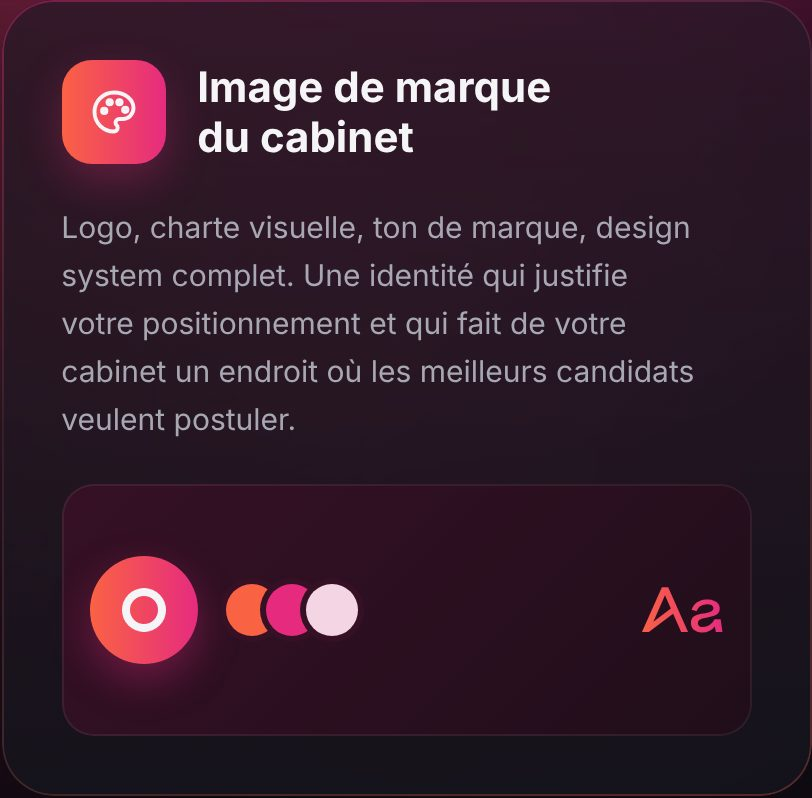
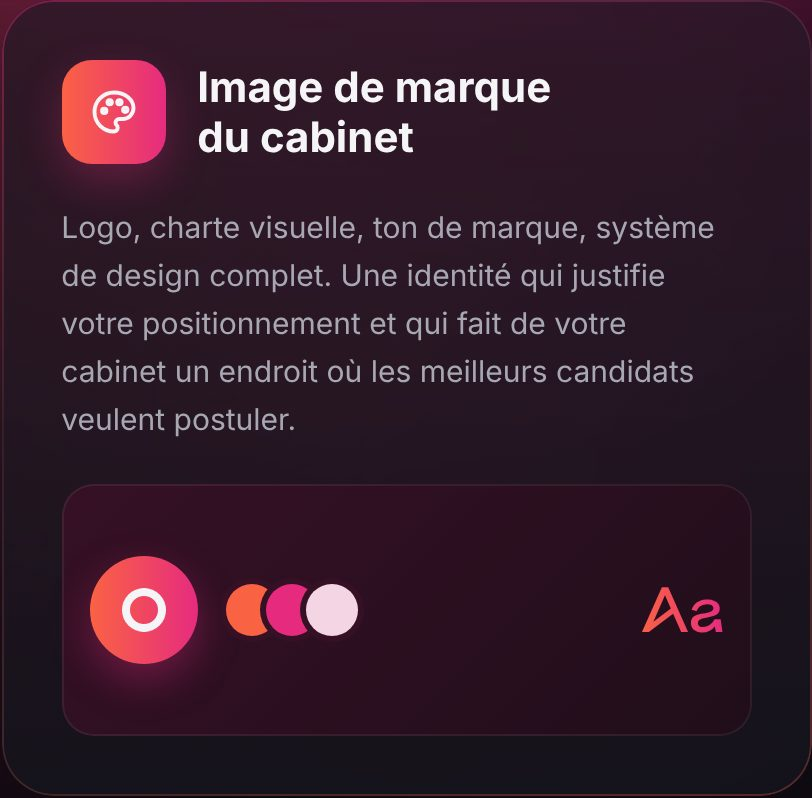
RH : anglicismes corrigés ; menu Services : « La fondation » pour l'Image de marque
- Tuile « Image de marque du cabinet » : « système de design complet »
- Sous-titre du hero RH et carte « Pour qui » : « image de marque » au lieu de « branding »
  (title, meta et H1 inchangés)
- Menu Services : libellé court « La fondation » (hint) ; le cycle garde « La fondation de
  tout le reste » (role)
- Captures de la tuile RH et du menu Services ouvert (ordinateur et burger)

Claude-Session: https://claude.ai/code/session_01QiN6EzAa7GW4dfaCoBoWZW

Changed region(s): [[0.0616, 0.3308, 0.8313, 0.3609], [0.7389, 0.2707, 0.8929, 0.3008]]

diff --git a/src/data/services.ts b/src/data/services.ts
@@ -44,7 +44,7 @@ export const SERVICES: Service[] = [
     key: 'marque',
     label: 'Image de marque',
     role: 'La fondation de tout le reste',
-    hint: 'La fondation de tout le reste',
+    hint: 'La fondation',
     href: '/image-de-marque/',
     icon: ICONS.palette,
   },
